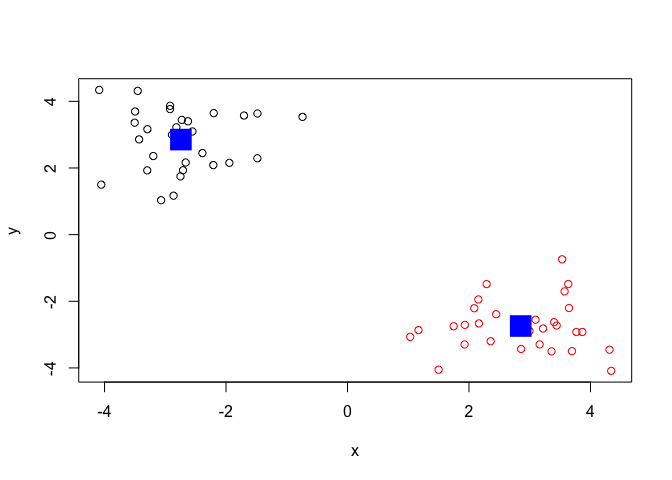
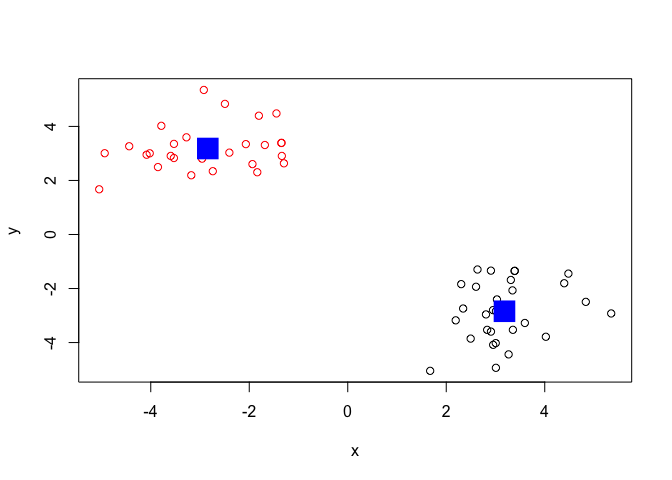
class09 with figures

diff --git a/Class09/Class09.md b/Class09/Class09.md
@@ -32,16 +32,16 @@ km
     ## 
     ## Cluster means:
     ##           x         y
-    ## 1 -2.742656  2.851844
-    ## 2  2.851844 -2.742656
+    ## 1  3.182488 -2.841580
+    ## 2 -2.841580  3.182488
     ## 
     ## Clustering vector:
-    ##  [1] 1 1 1 1 1 1 1 1 1 1 1 1 1 1 1 1 1 1 1 1 1 1 1 1 1 1 1 1 1 1 2 2 2 2 2 2 2 2
-    ## [39] 2 2 2 2 2 2 2 2 2 2 2 2 2 2 2 2 2 2 2 2 2 2
+    ##  [1] 2 2 2 2 2 2 2 2 2 2 2 2 2 2 2 2 2 2 2 2 2 2 2 2 2 2 2 2 2 2 1 1 1 1 1 1 1 1
+    ## [39] 1 1 1 1 1 1 1 1 1 1 1 1 1 1 1 1 1 1 1 1 1 1
     ## 
     ## Within cluster sum of squares by cluster:
-    ## [1] 39.89134 39.89134
-    ##  (between_SS / total_SS =  92.2 %)
+    ## [1] 52.83115 52.83115
+    ##  (between_SS / total_SS =  91.2 %)
     ## 
     ## Available components:
     ## 
@@ -60,8 +60,8 @@ km$size
 km$cluster
 ```
 
-    ##  [1] 1 1 1 1 1 1 1 1 1 1 1 1 1 1 1 1 1 1 1 1 1 1 1 1 1 1 1 1 1 1 2 2 2 2 2 2 2 2
-    ## [39] 2 2 2 2 2 2 2 2 2 2 2 2 2 2 2 2 2 2 2 2 2 2
+    ##  [1] 2 2 2 2 2 2 2 2 2 2 2 2 2 2 2 2 2 2 2 2 2 2 2 2 2 2 2 2 2 2 1 1 1 1 1 1 1 1
+    ## [39] 1 1 1 1 1 1 1 1 1 1 1 1 1 1 1 1 1 1 1 1 1 1
 
 ``` r
 #cluster center
@@ -135,8 +135,8 @@ table(gp4)
 ```
 
     ## gp4
-    ##  1  2 
-    ## 30 30
+    ##  1  2  3  4 
+    ## 17 13 13 17
 
 ## More
 
@@ -189,19 +189,19 @@ grps <- cutree(hc, k =3)
 grps
 ```
 
-    ##   [1] 1 1 1 1 2 1 3 2 2 3 3 3 3 2 3 3 1 1 2 2 1 1 3 2 2 3 2 1 3 3 1 2 3 2 1 1 3
-    ##  [38] 2 1 1 1 3 3 1 1 1 3 1 1 1 3 3 3 3 3 3 3 3 3 3 3 3 3 3 3 3 3 3 3 3 3 3 3 3
-    ##  [75] 3 3 3 3 3 3 3 3 3 3 3 3 3 3 3 3 3 3 3 3 3 3 3 3 3 3 1 3 3 3 3 3 1 1 3 3 3
-    ## [112] 3 1 3 3 3 1 3 3 3 3 3 3 3 1 1 3 3 3 3 1 3 3 3 3 1 3 3 3 1 3 1 1 3 3 1 3 3
-    ## [149] 1 3
+    ##   [1] 1 1 1 1 1 1 1 1 1 1 1 1 1 1 1 1 1 1 1 1 1 1 1 1 1 1 1 1 1 1 1 1 1 1 1 1 1
+    ##  [38] 1 1 1 1 1 1 1 1 1 1 1 1 1 1 2 3 2 1 2 2 2 1 2 2 2 2 2 3 2 2 2 2 2 2 2 2 2
+    ##  [75] 2 1 2 2 2 2 1 2 3 1 2 2 2 2 2 2 2 2 2 2 2 2 2 2 2 2 3 3 1 3 1 1 3 1 1 1 3
+    ## [112] 1 3 1 3 1 3 1 3 2 3 1 3 3 1 1 3 1 3 3 3 2 3 1 1 1 3 1 3 3 3 3 3 3 3 3 1 3
+    ## [149] 1 1
 
 ``` r
 table(grps)
 ```
 
     ## grps
-    ##   1   2   3 
-    ##  36  12 102
+    ##  1  2  3 
+    ## 77 43 30
 
 ``` r
 plot(x, col = grps)
